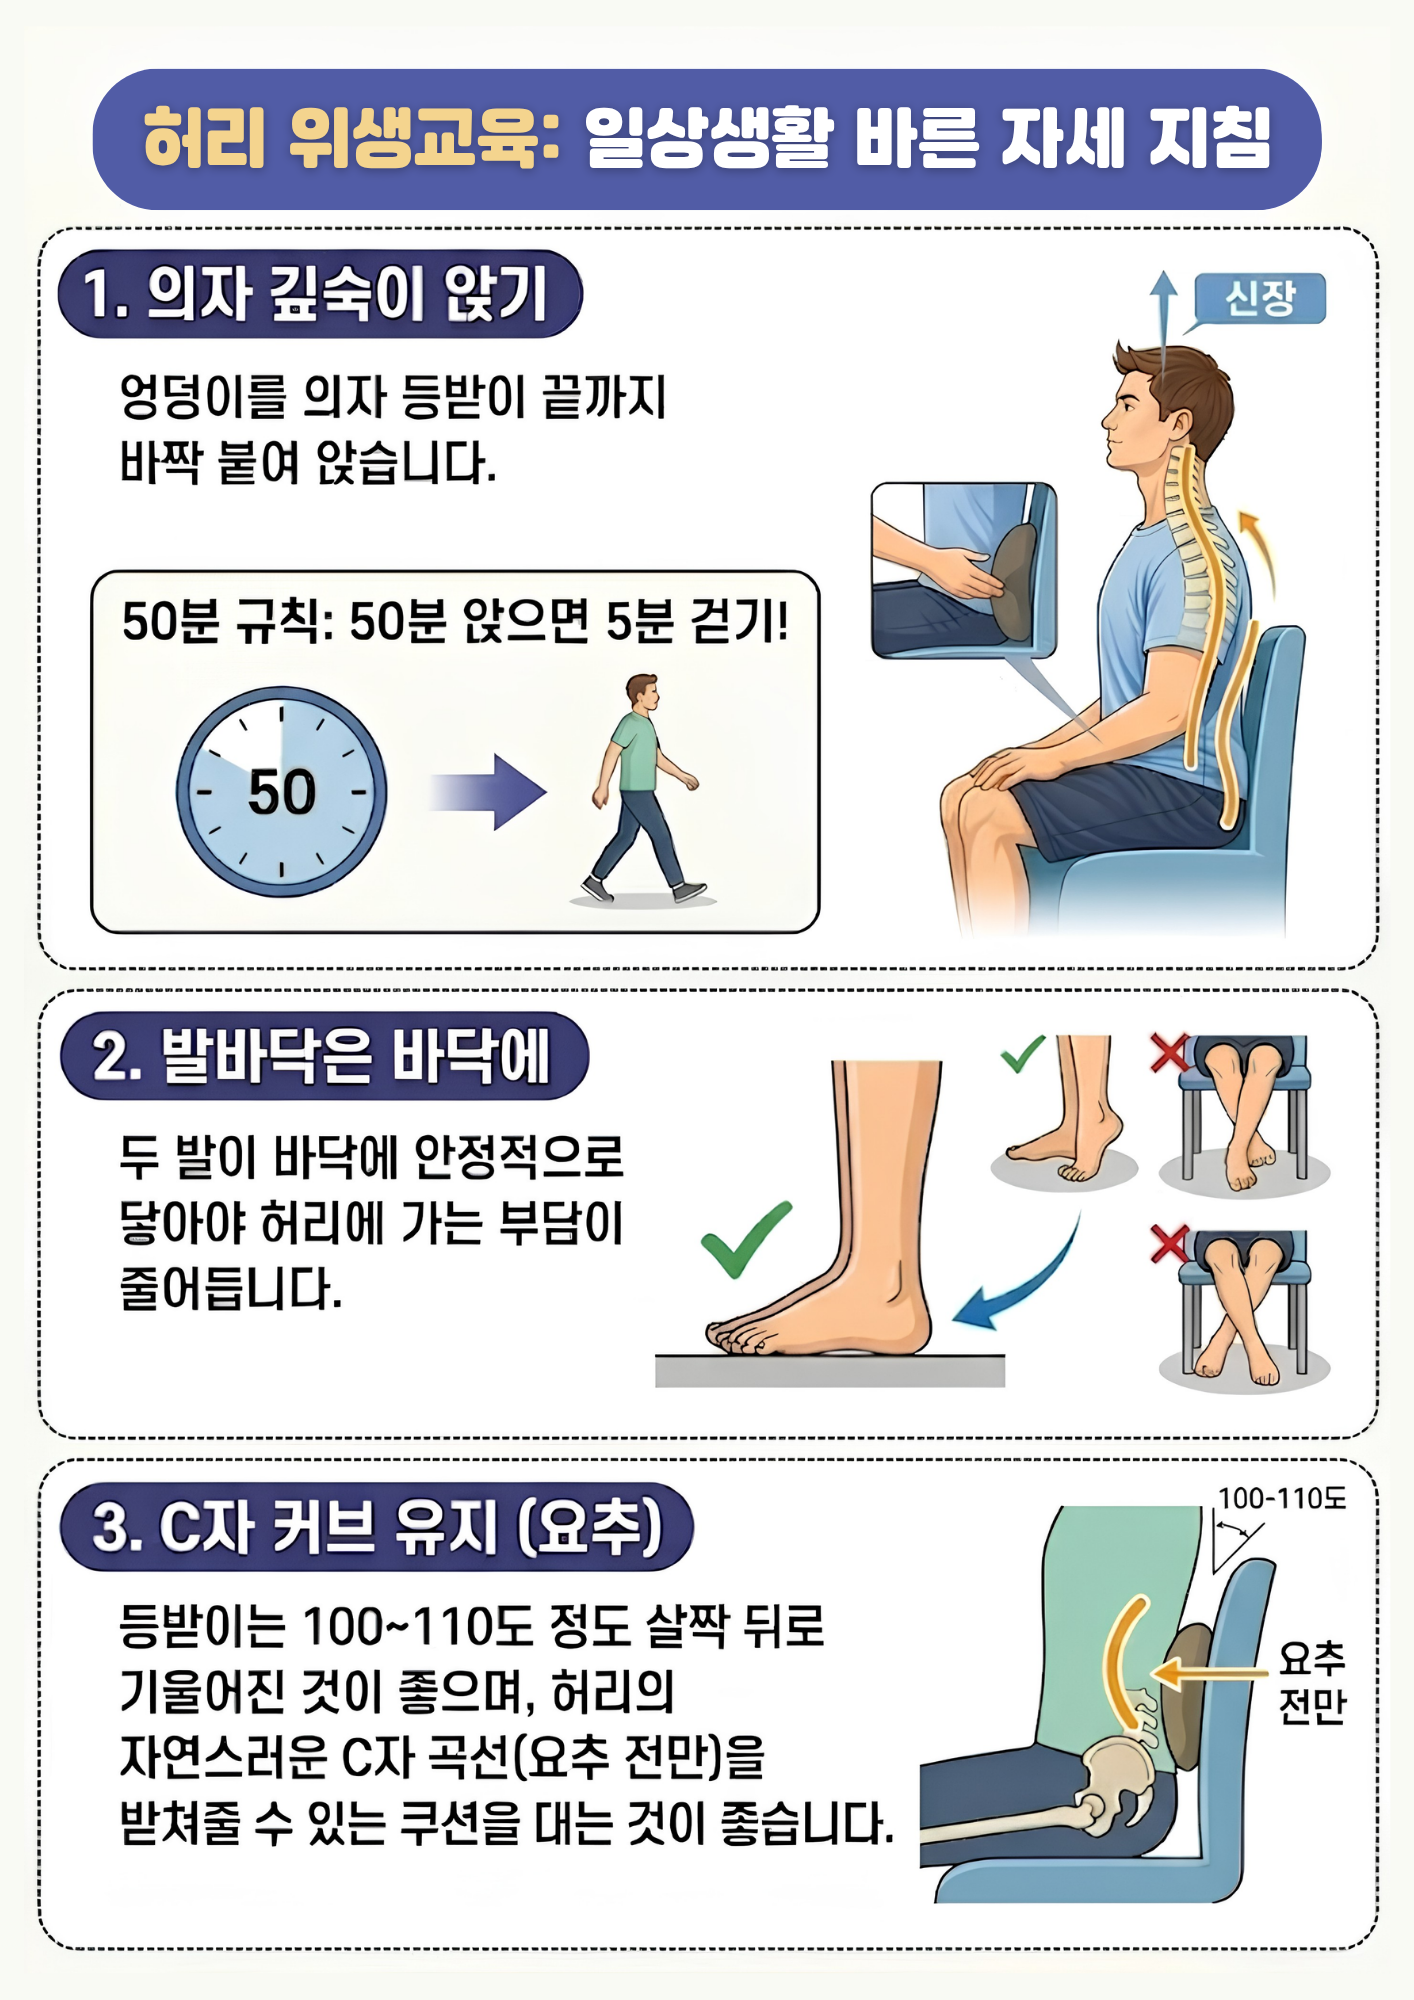
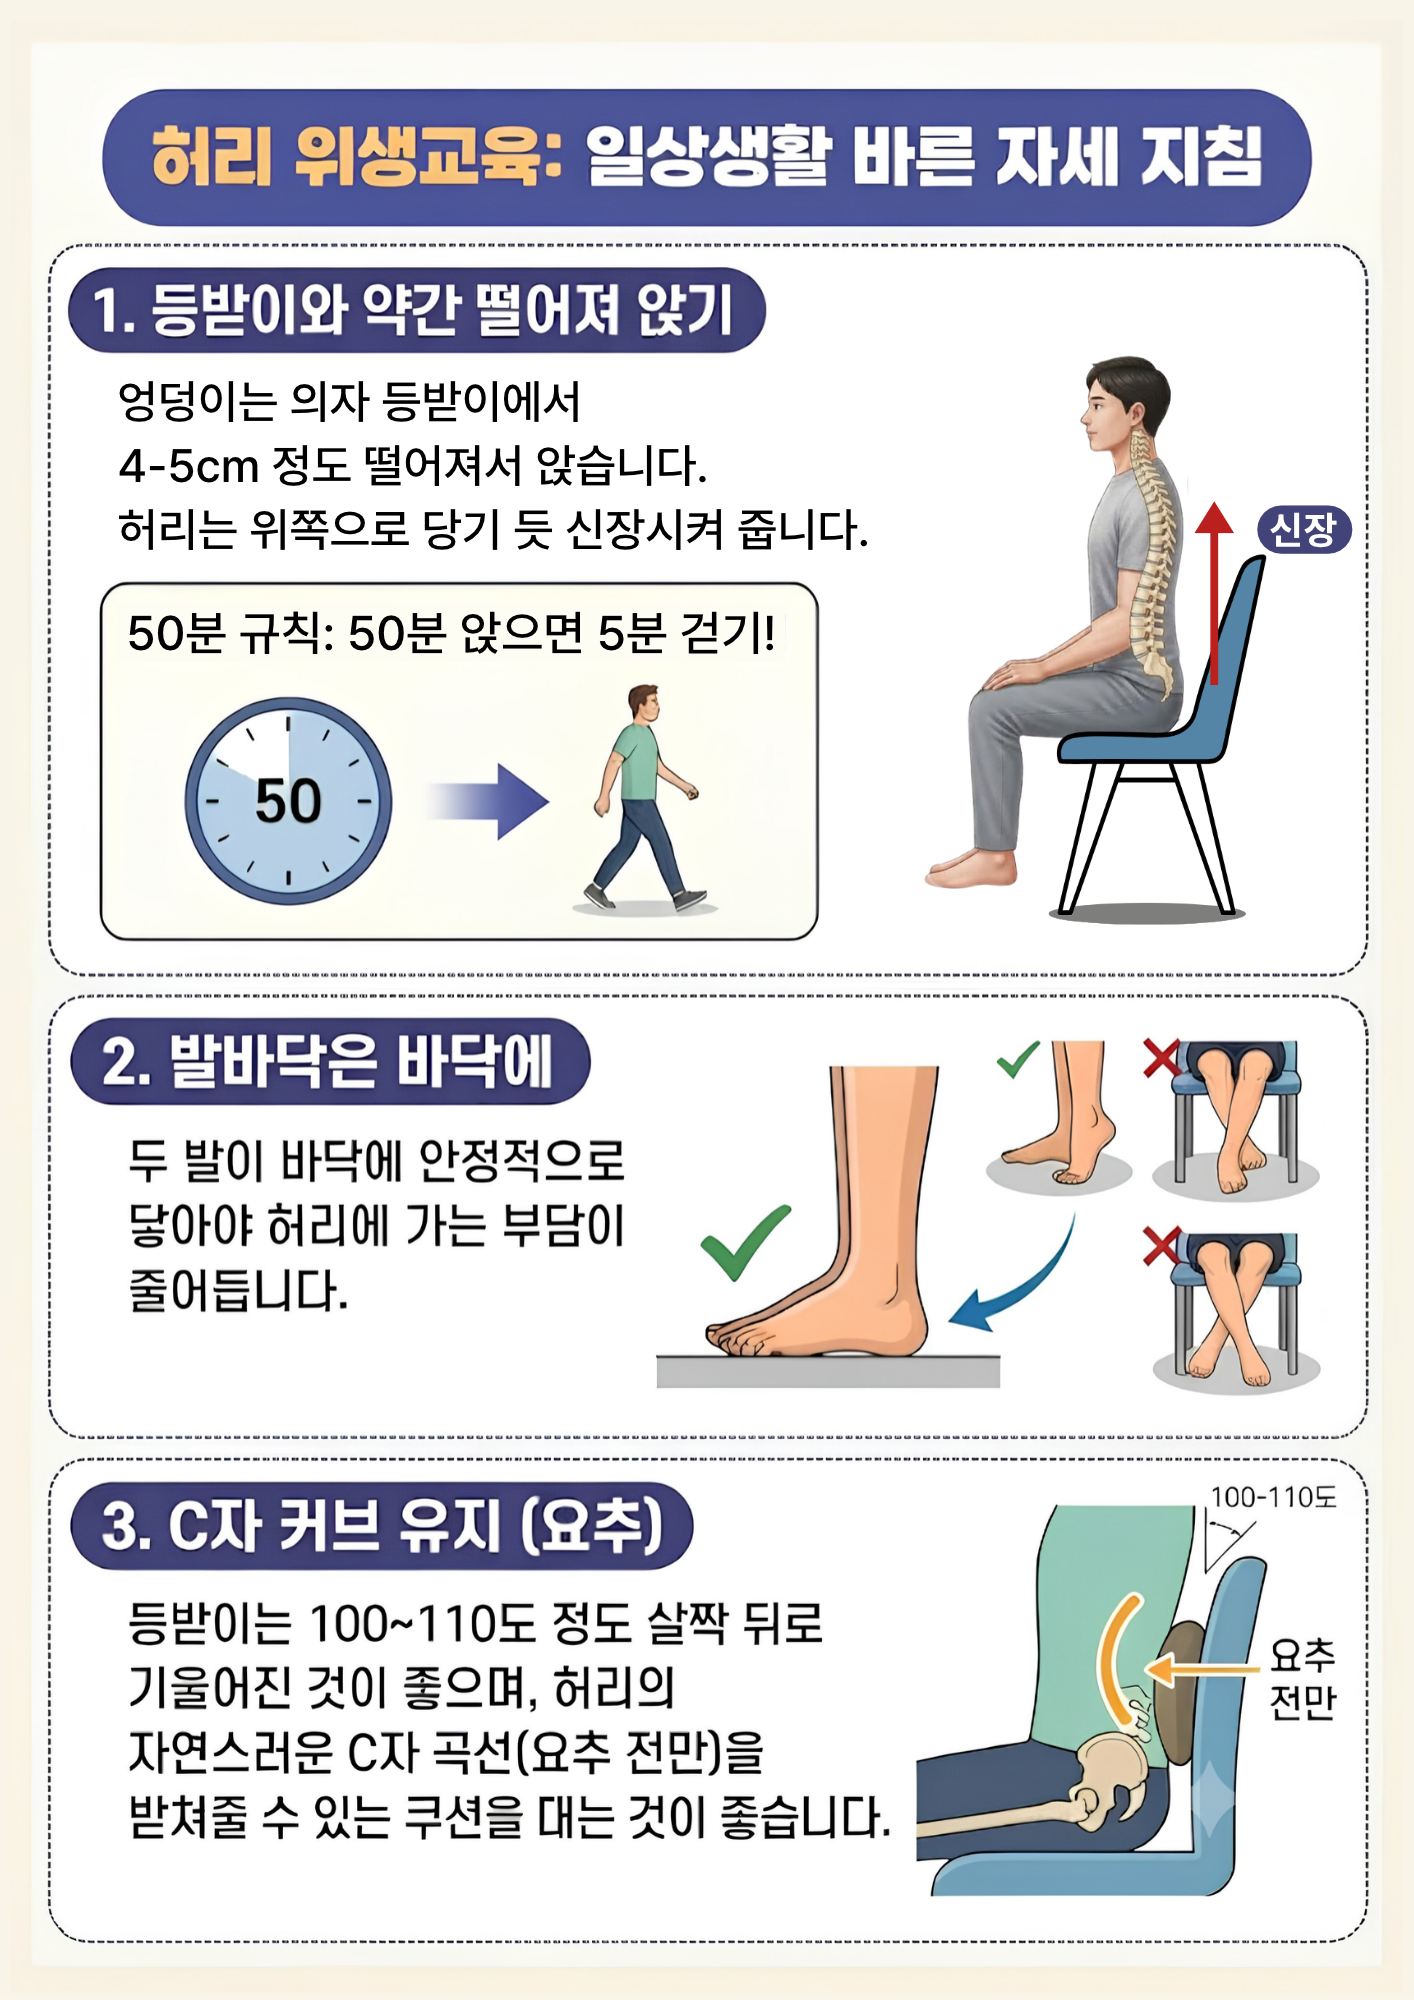
fix: 허리 위생교육 (1) 한글판 갱신
허리 위생교육 첫 장(일상생활 바른 자세 지침)을 새 이미지로 교체했다.
같은 파일명으로 교체되므로 BANNER_VER 20260914b -> 20261005 로 올려
브라우저가 옛 이미지를 캐시에서 재사용하지 않게 했다. 장수는 2장 그대로다.

주의: 같은 장의 영문판(en/허리 위생교육.png)은 아직 옛 이미지다.
영문판은 추후 별도로 교체한다.

diff --git a/js/i18n.js b/js/i18n.js
@@ -5,7 +5,7 @@
    ───────────────────────────────────────────── */
 
 /* 배너 캐시 버전: 배너 이미지를 같은 파일명으로 교체할 때마다 이 값을 올린다. */
-const BANNER_VER = '20260914b';
+const BANNER_VER = '20261005';
 
 const translationMap = {
   ko: {
